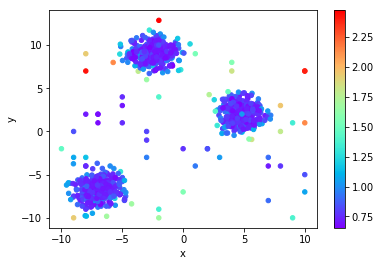
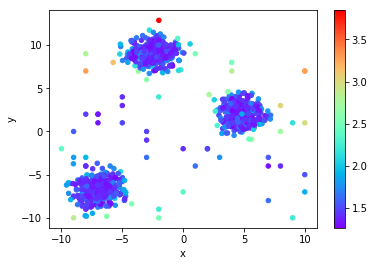
cleaning up code examples, using sklearn for knn

diff --git a/_posts/2019-04-26-outlier-detection-from-scratch.md b/_posts/2019-04-26-outlier-detection-from-scratch.md
@@ -1,6 +1,6 @@
 ---
 layout: post
-title: Outlier detection from scratch in python 
+title: Outlier detection from scratch (sort of) in python 
 published: true
 ---
 
@@ -55,40 +55,18 @@ Four separate algorithms are shown below:
 This is a very intuitive measure. How far away are you from your K<sup>th</sup> neighbor? The farther away, the more likely you are to be an outlier from the set.
 
 ```python
-from matplotlib.colors import Normalize
+from sklearn.neighbors import NearestNeighbors
 
 k = 10
 
-def k_nearest_neighbors(pt, pts):
-    # Computes the Euclidean distance from pt to every point in pts
-    distance_to_every_point = np.linalg.norm(pt - pts, axis=1)
-    
-    # Gets the sorted indices given the distances that we just found
-    sorted_indices = np.argsort(distance_to_every_point)
+knn = NearestNeighbors(n_neighbors=k)
 
-    # Get the sorted points
-    sorted_pts = pts[sorted_indices]
-    
-    # remove the first one as it is the same point as pt (because the distance is 0)
-    sorted_pts = sorted_pts[1:]
-    
-    # Get me the first K of the sorted pts array
-    return sorted_pts[:k] 
-
-KNN_table = []
-
-# Gather the KNN for every point and store them in order in a list
-# A kd-tree would be preferred here, simply brute-forcing for simplicity
-# Storing this information in a table as we will need it for the other algorithms
-for i in range(X.shape[0]):
-    KNN_table.append(k_nearest_neighbors(X[i], X))
-
-
+knn.fit(X)
 # Gather the kth nearest neighbor distance
-knn_distance = []
-for i in range(X.shape[0]):
-    knn_distance.append(np.linalg.norm(X[i] - KNN_table[i][k-1]))
-
+neighbors_and_distances = knn.kneighbors(X)
+knn_distances = neighbors_and_distances[0]
+neighbors = neighbors_and_distances[1]
+kth_distance = [x[-1] for x in sk_knn_distances]
 ```
 
 
@@ -100,12 +78,8 @@ for i in range(X.shape[0]):
 Very similar to K<sup>th</sup>NN, but we average out all the distances to the K nearest neighbors. Since K<sup>th</sup>NN only takes a single neighbor into consideration, it may miss certain outliers that TNN finds. 
 
 ```python
-# Gather the kth nearest neighbor distance
-tnn_distance = []
-for i in range(X.shape[0]):
-    k_distances = np.linalg.norm(X[i] - np.array(KNN_table[i]), axis=1)
-    tnn_distance.append(np.mean(k_distances))
-
+# Gather the average distance to each points nearest neighbor 
+tnn_distance = np.mean(knn_distances, axis=1)
 ```
 Notice the point in the upper-right corner, TNN determines that it is more likely an outlier due to how far it is from all its neighbors.
 
@@ -129,22 +103,18 @@ So, the `Ldof(x) = TNN(x)/KNN_Inner_distance(KNN(x))`
 This combination makes this method a density and a distance measurement. The idea is that a point with a LDoF score >> 1.0 is well outside the cloud of K nearest neighbors. Any point with an LDoF score less than or "near" 1.0 could be considered "surrounded" via the cloud of neighbors.  
 
 ```python
-
 # Gather the inner distance for pts
 def knn_inner_distance(pts):
     summation = 0
     for i in range(len(pts)):
         pt = pts[i]
-        for j in range(len(pts)):
-            summation = summation + np.linalg.norm(pt - pts[j])
+        for other_pt in pts[i:]:
+            summation = summation + np.linalg.norm(pt - other_pt)
     return summation / (k * (k - 1))
 
-ldofs = []
+inner_distances = [knn_inner_distance(X[ns]) for ns in neighbors]
 
-for i in range(X.shape[0]):
-    knn_i_d = knn_inner_distance(KNN_table[i])
-    ldofs.append(tnn_distance[i]/knn_i_d)
-
+ldofs = [x/y for x,y in zip(tnn_distance, inner_distances)]
 ```
 You can notice the effect of the "cloud" idea. All the points between the clusters are marked with a much lower probability of being an outlier, while those outside the cloud have a much higher likelihood.
 
@@ -167,39 +137,28 @@ The [wikipedia article on lof](https://en.wikipedia.org/wiki/Local_outlier_facto
 
 
 ```python
-
-knn_lookup_table = {}
-for i in range(X.shape[0]):
-    knn_lookup_table[tuple(X[i])] = KNN_table[i]
-
-
-def reachability_distance(pt1, pt2):
-    true_distance = np.linalg.norm(pt1 - pt2) 
-    other_knn_distance = np.linalg.norm(pt2 - knn_lookup_table[tuple(pt2)][-1])
-    return max([true_distance, other_knn_distance])
-
-local_reach_density_lookup_table = {}
-# Calculate each points local reach density and store it in the table
+local_reach_density = []
 for i in range(X.shape[0]):
     pt = X[i]
-    knns = KNN_table[i]
     sum_reachability = 0
-    for j in range(len(knns)):
-        sum_reachability = sum_reachability + reachability_distance(pt, knns[j])
+    neighbor_distances = knn_distances[i]
+    pt_neighbors = neighbors[i]
+    for neighbor_distance, neighbor_index in zip(neighbor_distances, pt_neighbors):
+        neighbors_kth_distance = kth_distance[neighbor_index]
+        sum_reachability = sum_reachability + max([neighbor_distance, neighbors_kth_distance])
+        
     avg_reachability = sum_reachability / k
-    local_reach_density_lookup_table[tuple(pt)] = (1/avg_reachability)
+    local_reach_density.append(1/avg_reachability)
 
+local_reach_density = np.array(local_reach_density)
 lofs = []
-# Calculate the LoF for each point
 for i in range(X.shape[0]):
     pt = X[i]
-    knns = KNN_table[i]
-    lrd_knns = 0
-    for j in range(len(knns)):
-        lrd_knns = lrd_knns + local_reach_density_lookup_table[tuple(knns[j])]
-    avg_lrd = lrd_knns / k
-    lofs.append(avg_lrd/local_reach_density_lookup_table[tuple(pt)])
+    avg_lrd = np.mean(local_reach_density[neighbors[i]])
+    lofs.append(avg_lrd/local_reach_density[i])
 
+# Or just use
+# from sklearn.neighbors import LocalOutlierFactor
 ```
 
 
